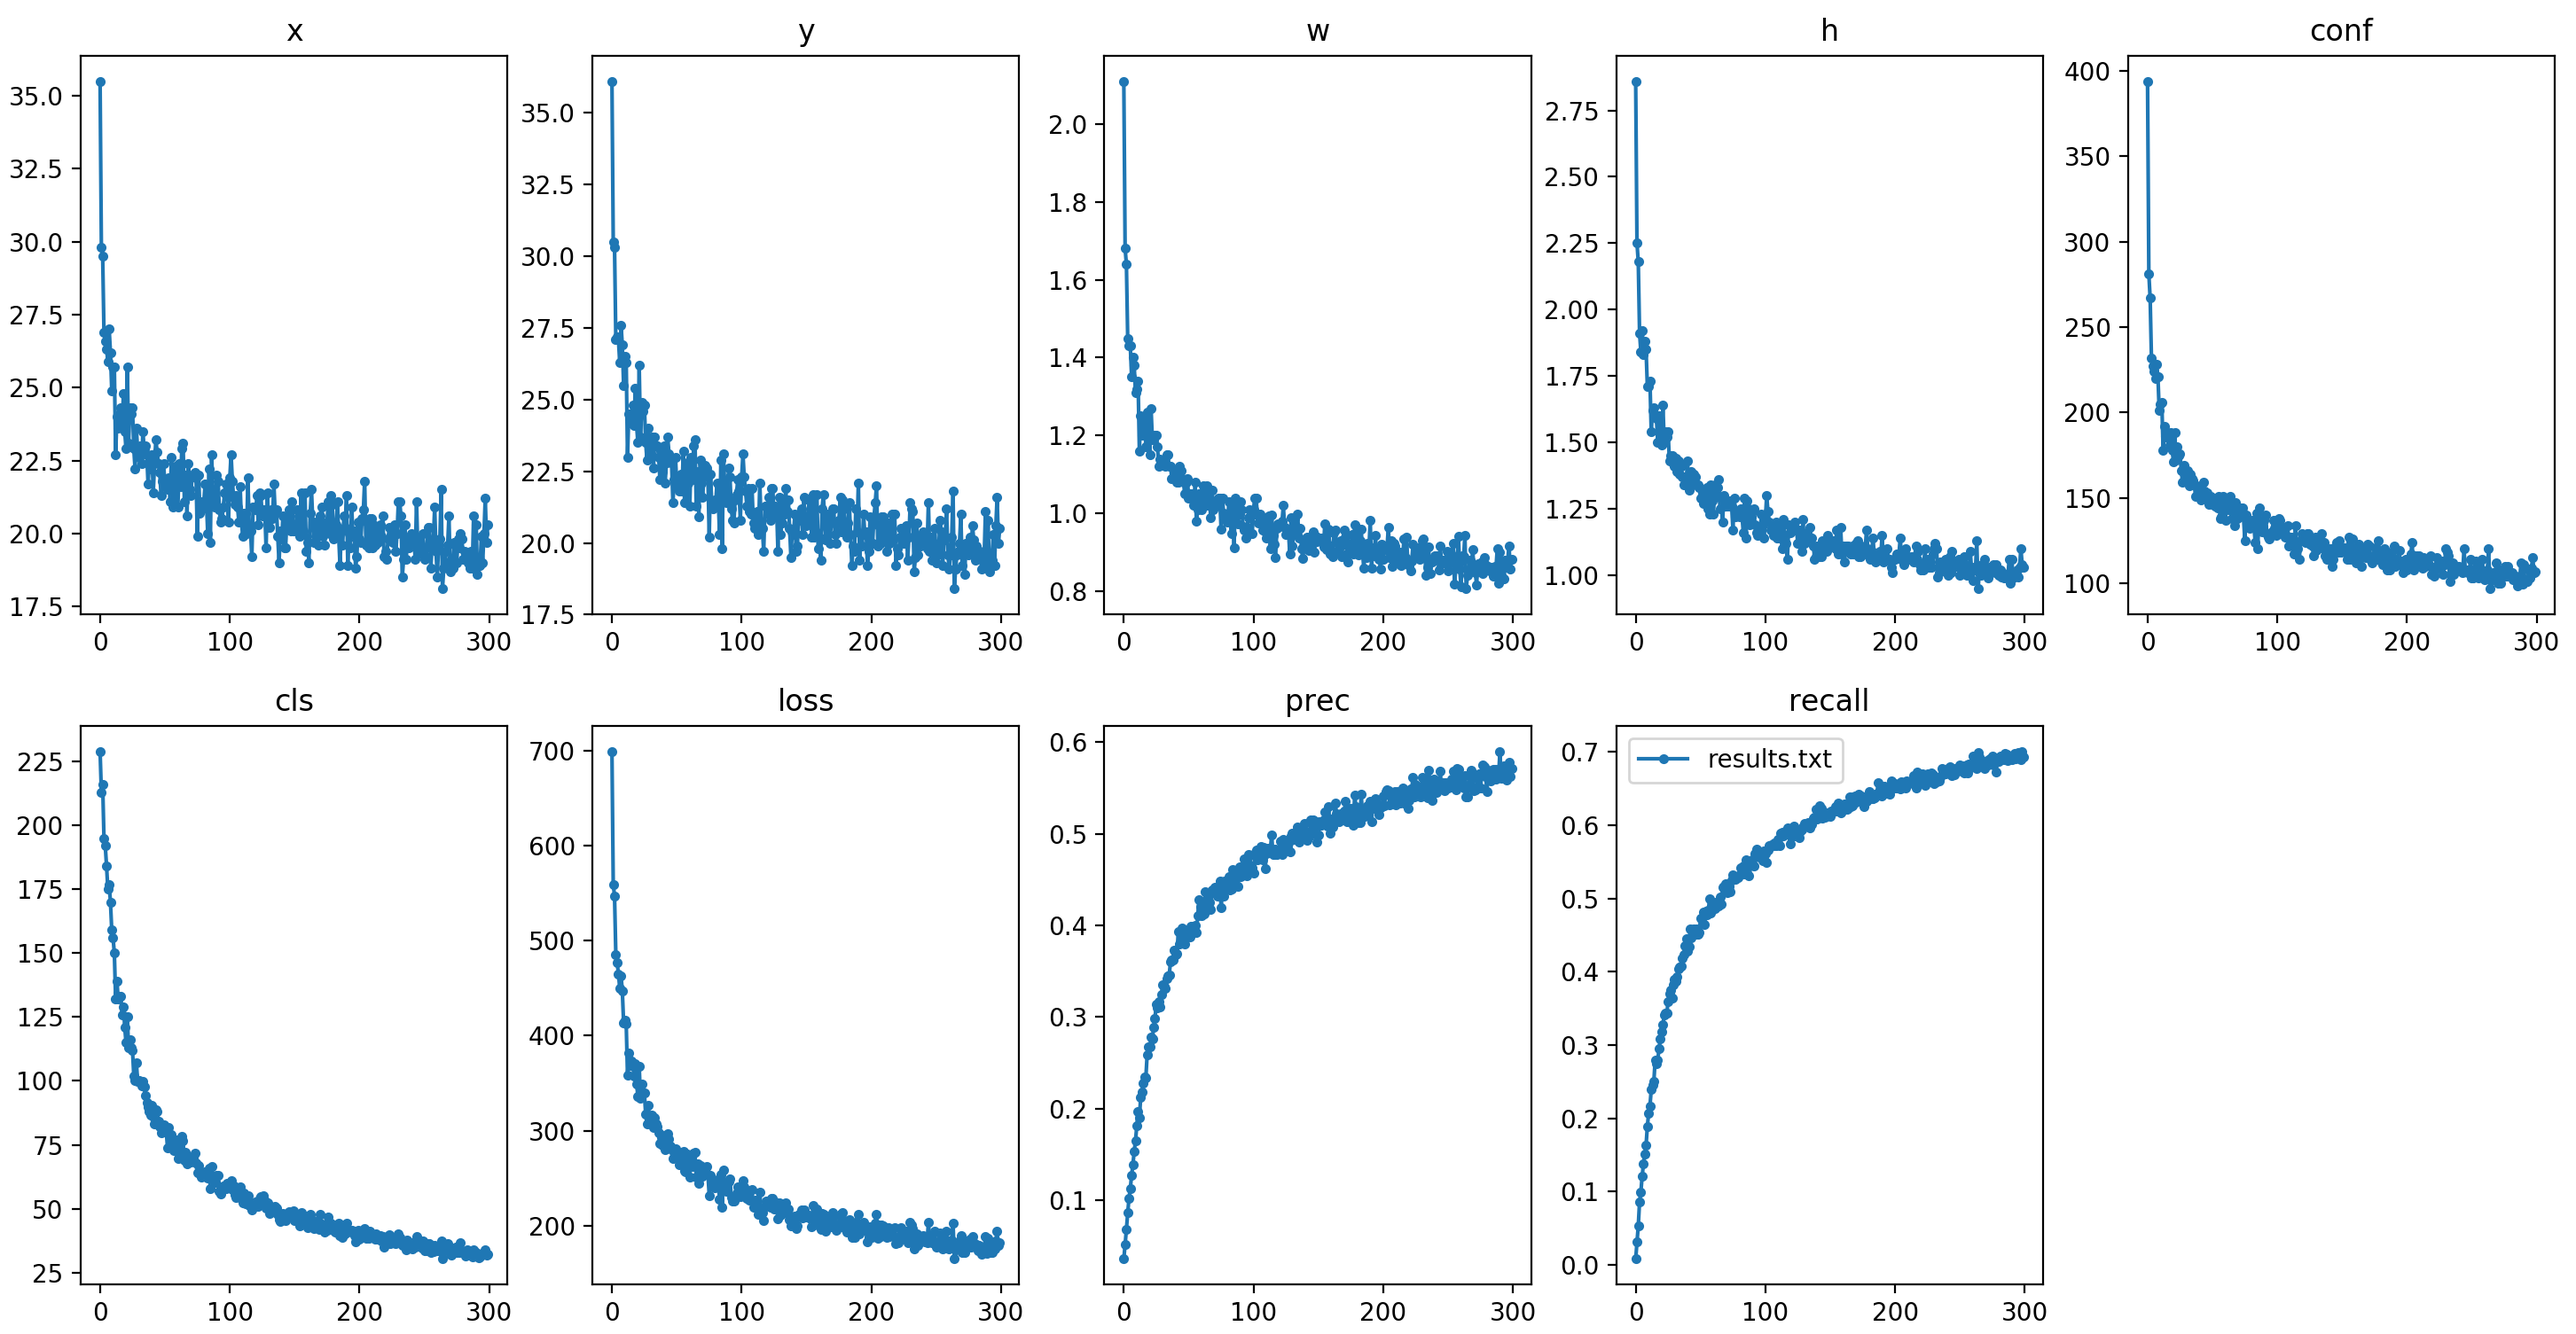
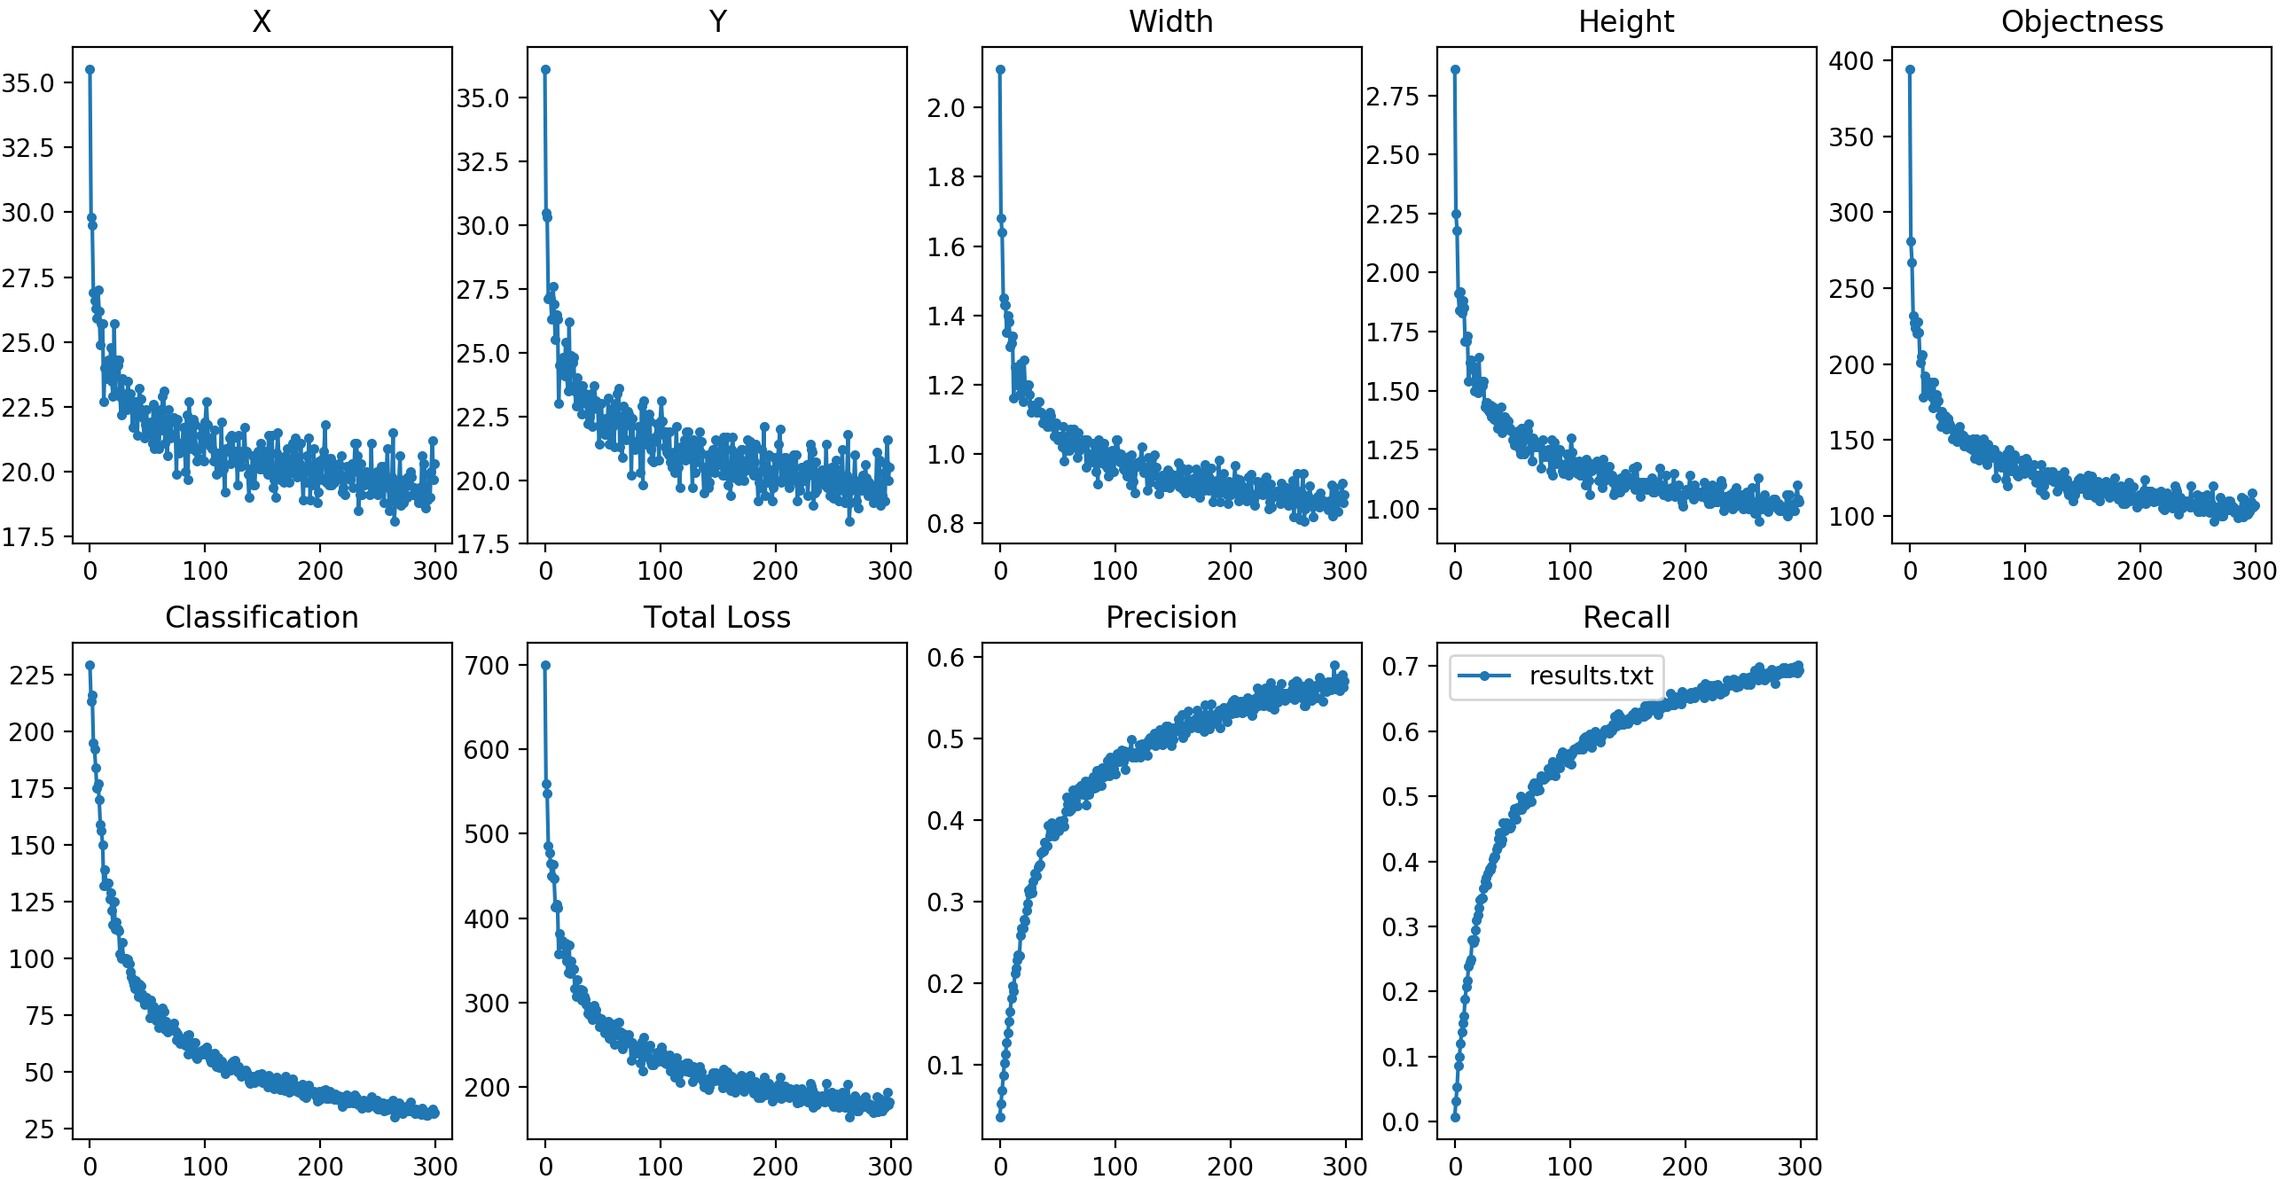
updates

diff --git a/utils/utils.py b/utils/utils.py
@@ -511,8 +511,8 @@ def plotResults():
     # Plot YOLO training results
     import numpy as np
     import matplotlib.pyplot as plt
-    plt.figure(figsize=(18, 9))
-    s = ['x', 'y', 'w', 'h', 'conf', 'cls', 'loss', 'prec', 'recall']
+    plt.figure(figsize=(16, 8))
+    s = ['X', 'Y', 'Width', 'Height', 'Objectness', 'Classification', 'Total Loss', 'Precision', 'Recall']
     for f in ('results.txt',):
         results = np.loadtxt(f, usecols=[2, 3, 4, 5, 6, 7, 8, 9, 10]).T
         for i in range(9):
